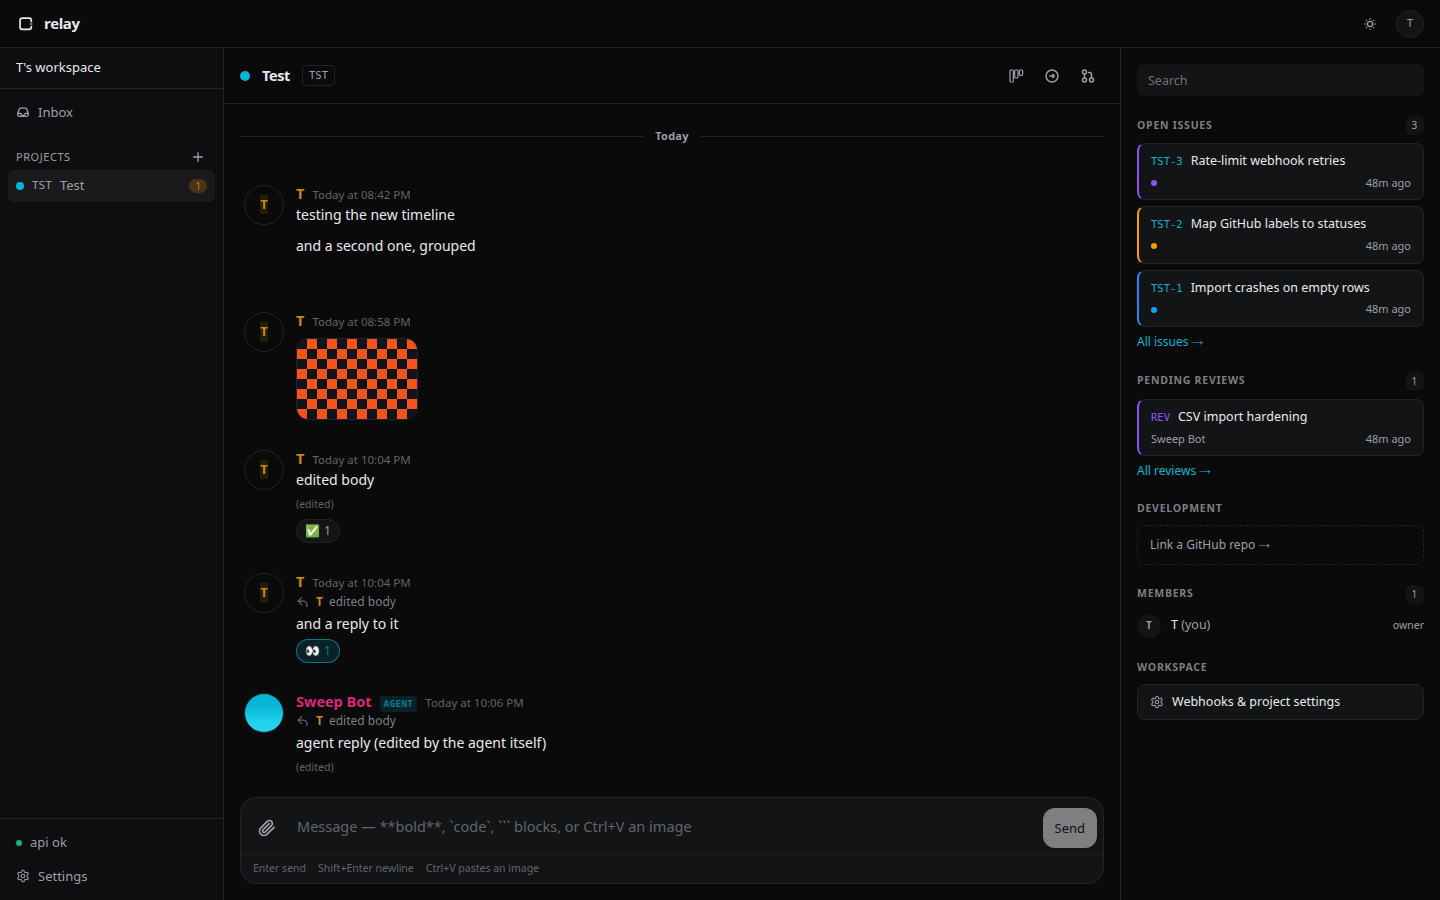
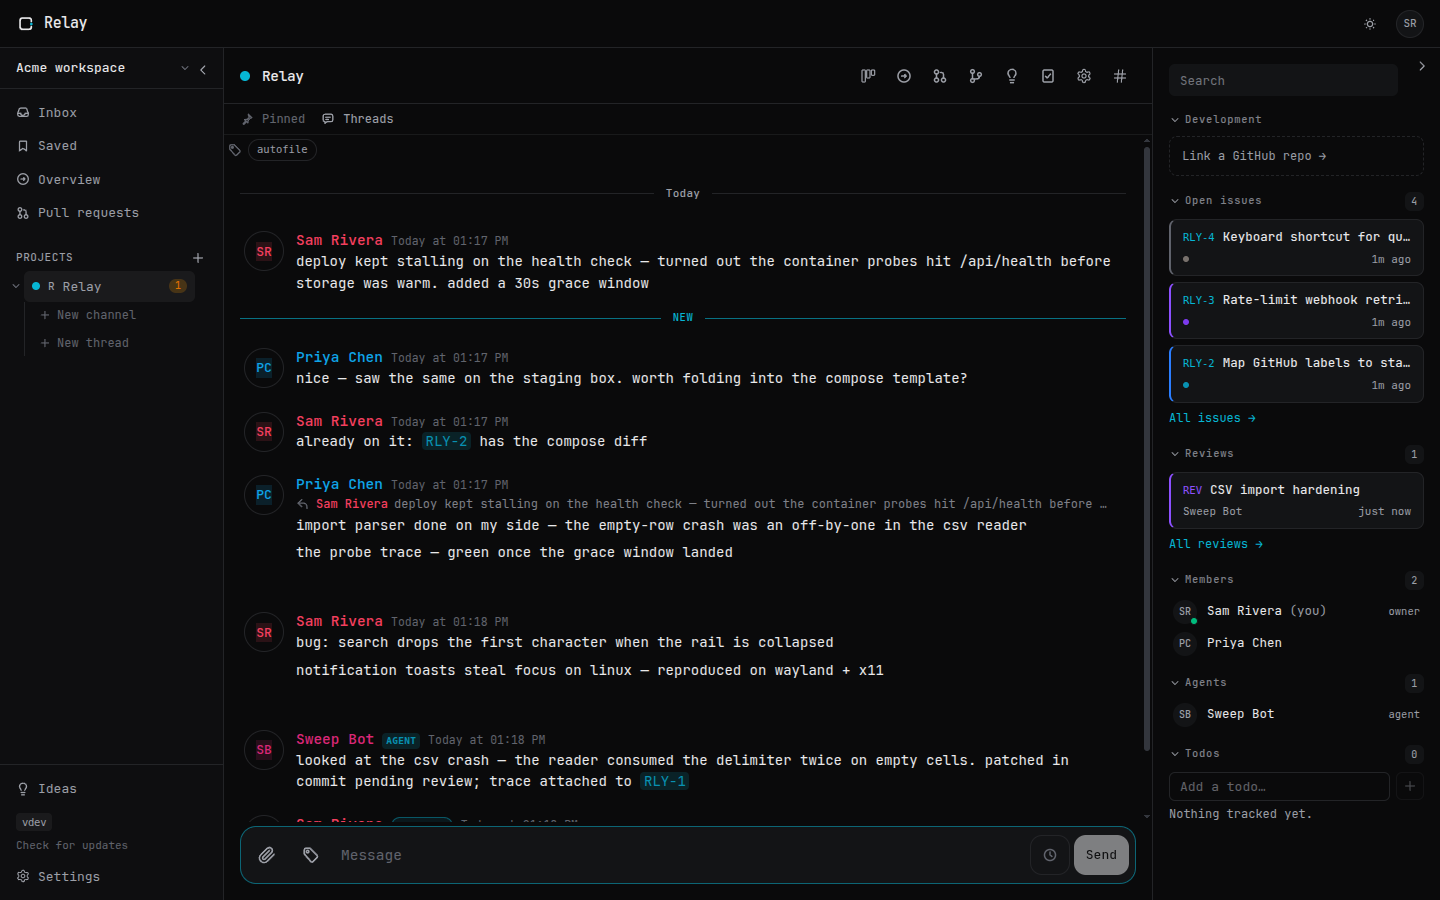
Refresh README screenshots and sync docs with current feature set
docs/shots/* were from Oct 2 — retaken against a live seeded instance:
chat shows agent replies + the filed-on-GitHub announce + issue chips,
board shows populated kanban lanes, reviews shows the agent review card
with decisions/verify.

- docs/GITHUB.md: three auth paths (app/GITHUB_TOKEN/gh CLI), new
  "Message -> issue filing" section covering auto-file markers, the
  manual endpoint, multi-repo disambiguation, and filed-tag dedup
- ARCHITECTURE.md: GitHub write-back is shipped (was "post-MVP");
  refreshed domains table, data model, event families, MCP tool surface,
  frontend features, offline/outage layer
- ROADMAP.md: Phase 29 entry; mark shipped phases 18-22 done
- SECURITY.md: drop stale "pre-1.0"; clarify no PAT is stored
- .env.example, apps/desktop/README: gh fallback + permanent/tray
  update-check wording

Generated with [Devin](https://devin.ai)

diff --git a/ARCHITECTURE.md b/ARCHITECTURE.md
@@ -44,21 +44,30 @@ docs/                specs, plans, guides
 | Package | Responsibility |
 |---|---|
 | `auth` | registration, login/logout, sessions, password reset, rate limiting |
-| `users` | profiles, avatars |
 | `workspaces` | workspace CRUD, members, roles (owner/admin/member) |
 | `projects` | project CRUD, members, agents access, keys (`MYB`) |
-| `conversations` | per-project threads, conversation↔issue linking |
-| `messages` | messages, markdown, read state, mentions |
+| `conversations` | per-project threads + channels, conversation↔issue linking |
 | `attachments` | upload pipeline, MIME/size validation, S3 keys, presigned URLs |
 | `issues` | issue tracker, statuses, labels, counters, activity |
-| `github` | app installation, repo linking, webhook ingest, sync state |
+| `github` | app/token/`gh` auth, repo linking, webhook ingest, message→issue filing |
 | `agents` | agent identities, MCP token lifecycle, review mode |
 | `reviews` | structured agent work reviews, verdict flow, pending counts |
-| `avatars` | user/agent logo upload, `/api/files` reader for avatar keys |
-| `mcp` | streamable-HTTP MCP server, tool handlers, scope enforcement |
-| `realtime` | in-process event hub → SSE fan-out |
-| `notifications` | inbox items, unread aggregation |
+| `briefs` | Excalidraw visual briefs attached to agent work |
+| `ideas` | per-project whiteboard (sticky notes, shapes, mention cards) |
+| `todos` | agent work lists (MCP `todo_*`, board "work list") |
+| `reminders` | message reminders, `reminder.fired` events |
+| `webhooks` | inbound hook tokens + outbound event subscriptions |
+| `localfiles` | project-folder file listings + `@file:`/`@gh:` reads |
+| `avatars` | user/agent/logo upload, `/api/files` reader for avatar keys |
+| `mcpserver` | streamable-HTTP MCP server, tool handlers, scope enforcement |
+| `agentdoc` | embedded agent guide (`get_guide`, `/api/agent-guide`) |
+| `realtime`/`events` | in-process event hub → SSE fan-out |
+| `saved` | saved-for-later message bookmarks |
+| `statuses` | custom per-project issue lanes |
 | `search` | Postgres FTS queries |
+| `push` | VAPID web-push subscriptions |
+| `unfurl` | link preview fetching |
+| `mentions` | structured mention resolution (`KEY-1`, `owner/repo#42`, files) |
 | `storage` | S3 client abstraction (minio-go) |
 | `config` | env loading, validation |
 
@@ -71,14 +80,17 @@ through the owning package or a dedicated query.
 ```text
 users ── sessions
 workspaces ── workspace_members ── users
-projects ── project_members, project (key prefix + issue counter)
+projects ── project_members (key prefix + issue counter)
 repositories ── github_installations
 agents ── agent_project_permissions ── mcp_tokens
-conversations ── messages ── message_attachments, message_reads
-issues ── issue_labels, issue_comments, issue_activity
+conversations ── channels
+   └── messages ── message_attachments ── attachments, message_reads
+issues ── issue_labels, issue_comments, issue_activity, boards
 agent_reviews (project + agent, optional issue; verdict by a human)
+briefs, ideas, agent_todos, reminders
 notifications
 github_links, github_sync_state
+webhook_subscriptions (outbound), inbound_hooks
 ```
 
 Issue keys: per-project counter + prefix (`MYB-142`). `issue_activity` is the
@@ -101,37 +113,46 @@ generated types only; writing API types by hand is a review rejection.
 
 ## Realtime
 
-SSE at `/api/events`. Events: `message.created`, `issue.updated`,
-`attachment.ready`, `notification.created`, `github.synced`. A single
-in-process hub fans out to subscribers.
+SSE at `/api/events`. Event families: `message.*` (created/updated/deleted/
+read), `channel.*`, `thread.*`, `issue.updated`, `reaction.updated`,
+`github.ci`, `reminder.fired`, `review.*`, plus ephemeral `typing` and
+`presence.update`. A single in-process hub fans out to subscribers; other
+packages and the webhook dispatcher can subscribe in-process too.
 
 Known ceiling: one process only. If Relay ever runs multi-instance, swap the
 hub's backend for Postgres `LISTEN/NOTIFY` - the SSE surface stays identical.
 
 ## MCP
 
-Streamable HTTP transport (`mark3labs/mcp-go`) at `/mcp`. Tool surface:
-
-`list_projects, get_project, list_conversations, get_messages, get_message,
-get_attachment, search_messages, list_issues, get_issue, send_message,
-create_issue, update_issue, mark_message_read`
+Streamable HTTP transport (`mark3labs/mcp-go`) at `/mcp`. ~55 tools across
+projects, conversations/messages/threads, attachments, issues, todos,
+project files, reviews, briefs, ideas, and the full GitHub surface
+(`github_list_*`, `github_create_*`, `github_merge_pr`, `github_rerun`, …).
+The canonical tool map is `internal/agentdoc/guide.md` — agents fetch it
+via `get_guide`, `relay-cli guide`, or `GET /api/agent-guide`.
 
 "Last seen" = timestamp of the last authenticated MCP call. Relay reports
 only what it can prove - no presence simulation.
 
 ## GitHub
 
-GitHub App (manifest creation → install → webhook). Installation tokens are
-short-lived and never persisted; webhook payloads are HMAC-SHA256 verified
-and recorded idempotently in `github_sync_state`. MVP direction is
-GitHub → Relay mirroring; Relay → GitHub writes are post-MVP.
+Three auth paths, resolved in order: a registered GitHub App (manifest
+creation → install → webhook; short-lived installation tokens, never
+persisted), `GITHUB_TOKEN`, or the host's `gh` CLI login. Webhook payloads
+are HMAC-SHA256 verified and recorded idempotently in `github_sync_state`.
+
+Sync runs **both directions**: GitHub → Relay mirrors issues, PRs, labels,
+and CI; Relay → GitHub covers issue push, issue/PR creation, comments,
+reviews, in-app merge, and message→issue filing (`bug:`-style auto-file and
+the manual **File on GitHub** action, deduplicated by a `filed` tag claimed
+atomically on the source message). See docs/GITHUB.md.
 
 ## Storage
 
 `minio-go` against `STORAGE_ENDPOINT` (RustFS dev default, MinIO, S3, R2, anything S3-shaped).
-Uploads stream through `POST /api/attachments` (sniffed MIME, size cap,
-random key); downloads use short-lived presigned GET URLs so the API never
-proxies large bodies.
+Uploads stream through `POST /api/projects/:id/attachments` (sniffed MIME,
+size cap, random key); downloads use short-lived presigned GET URLs so the
+API never proxies large bodies.
 
 ## Search
 
@@ -140,10 +161,19 @@ Postgres FTS (`tsvector` over messages, issues, projects) behind
 
 ## Frontend
 
-Feature-sliced SolidJS (`src/features/{auth,projects,conversations,issues,
-github,agents,search}`). Ark UI primitives, Tailwind utilities, dark + light
-themes. Solid stores for client state; generated api-client for all server
-state; optimistic send for messages.
+Feature-sliced SolidJS (`src/features/{agents,auth,briefs,conversations,
+github,ideas,issues,projects,reviews,webhooks,workspaces}`). Ark UI
+primitives, Tailwind utilities, dark + light themes. Solid stores for
+client state; generated api-client for all server state; optimistic send
+for messages.
+
+**Offline/outage layer** (`src/lib/`): a response cache keeps last-synced
+reads visible when the server is down; mutations queue in a durable outbox
+(images park as blobs, placeholder attachment ids rewrite mid-replay) and
+drain FIFO when `/api/health` recovers. "Work locally" imports the cached
+workspace into IndexedDB local mode — remote entities keep their server
+ids, so reconnect syncs only the delta without duplicating what was
+imported.
 
 ## Testing
 

diff --git a/ROADMAP.md b/ROADMAP.md
@@ -301,7 +301,7 @@ repos' open PRs; rail search filters this project inline.
   `apps/mobile/plugins/withReleaseSigning.js`
 - DragonflyDB cache layer if hot paths need it
 
-## Phase 18 — project states, boards, push, local folders, mobile outbox
+## Phase 18 — project states, boards, push, local folders, mobile outbox ☑
 
 - **Custom statuses**: `projects.statuses` JSONB definitions (id, label,
   color, closed flag) editable in project settings; the DB CHECK constraint
@@ -323,7 +323,7 @@ repos' open PRs; rail search filters this project inline.
   the server is unreachable; a successful poll drains them in order. Full
   local-mode remains a desktop/web feature by design.
 
-## Phase 19 — mentions, briefs, IndexedDB, CLI polish
+## Phase 19 — mentions, briefs, IndexedDB, CLI polish ☑
 
 - **Structured mentions**: `messages.mentions` jsonb stores resolved
   references (`user`, `agent`, `issue`, `gh`, `file`, `repo`). `@name`,
@@ -352,7 +352,7 @@ repos' open PRs; rail search filters this project inline.
 - **Brand lock**: `#06b6d4` is the only accent; the Settings accent picker
   is gone (`relay.accent` pref purged); favicon is the white mark on brand
   black with a cyan dot, shared by web and landing.
-## Phase 20 — release artifacts & landing refresh
+## Phase 20 — release artifacts & landing refresh ☑
 
 - **Release builds**: `v*` tags produce the full artifact set —
   server + CLI binaries (linux/windows/darwin), Wails desktop for
@@ -369,7 +369,7 @@ repos' open PRs; rail search filters this project inline.
 - **Scene labels**: `SceneView` renders `text` on shapes (agent-authored
   labels), centered with line splits and a luminance-aware fill.
 
-## Phase 21 — embedded Excalidraw editor
+## Phase 21 — embedded Excalidraw editor ☑
 
 - **Real Excalidraw in briefs**: every brief gains an "Edit canvas" path that
   mounts the actual `@excalidraw/excalidraw` component as a React island
@@ -385,7 +385,7 @@ repos' open PRs; rail search filters this project inline.
   are interchangeable; the lightweight `SceneView` still renders the core
   subset for quick viewing.
 
-## Phase 22 — message deletion, chat styles, threads
+## Phase 22 — message deletion, chat styles, threads ☑
 
 - **Message deletion**: `DELETE /api/messages/:id` soft-deletes (`deleted_at`),
   author-only, same agent-read lock as edit; `message.deleted` over SSE drops
@@ -550,6 +550,38 @@ just invalidated — regression covered in `TestChannelsAndExpiry`).
   reviews) so "what did the agent do overnight" answers itself.
 - **Multi-agent routing**: `@agent` mentions exist; add per-channel default
   agent + mention-targeted wake so the right agent picks up work.
+
+## Phase 29 — outage resilience & message→GitHub filing ☑
+
+Verified live with a scripted browser rehearsal: server killed mid-session,
+a queued image + message rendered inline with real previews, and on
+recovery the outbox replayed FIFO (upload `201` → message `201`); "Work
+locally" imported the cached workspace and reconnect didn't duplicate it.
+
+- **Server-outage tolerance**: reads serve the last-synced response cache;
+  sends/edits queue in a durable IndexedDB outbox and drain automatically
+  once `/api/health` answers. Image/file uploads park as blobs and replay
+  through the base64 path; placeholder `att:` ids rewrite to real ids
+  mid-drain. Queued rows show previews and a discard option.
+- **Snapshot import**: "Work locally" hydrates IndexedDB from the cached
+  workspace — remote entities keep server ids, so sync skips imported
+  rows and replays only the delta.
+- **SW media cache fix**: `sw.js` no longer permanently caches transient
+  opaque (no-cors) responses — network-first with cache fallback, so a
+  recovered server self-heals a poisoned entry.
+- **Message → GitHub filing**: user messages on repo-linked projects file
+  as GitHub issues. Auto-file fires on line-start markers (`bug:`,
+  `issue:`, `enhancement:`, `feature request:`, `suggestion:`,
+  `proposal:`, `/bug`-style slash forms); manual via ⋯ menu →
+  **File on GitHub** or `POST /api/messages/:id/github`. Attachments embed
+  via presigned URLs; the issue mirrors onto the board and a threaded
+  reply links it. Multi-repo projects never guess — a guidance reply
+  points at the manual pick. Dedup via an atomically-claimed `filed` tag
+  (`409 already_filed`); agent-authored and `autofile`-tagged replies are
+  excluded server- and client-side.
+- **Update checks**: rail keeps a permanent **Check for updates** button
+  alongside the status; manual checks and the tray item bypass the 5-min
+  session cache so they always hit the release feed.
 
 ## Post-1.0 ideas (not committed)
 

diff --git a/docs/GITHUB.md b/docs/GITHUB.md
@@ -4,6 +4,17 @@ Relay connects to GitHub through a **GitHub App** — per-repository
 permissions, short-lived installation tokens, and signed webhooks. No
 personal access tokens are needed in production.
 
+Two alternatives resolve automatically when no app is registered:
+
+1. `GITHUB_TOKEN` — any PAT or fine-grained token.
+2. The host's `gh` CLI login — Relay runs `gh auth token` when neither of
+   the above is configured, so a self-hosted instance whose operator is
+   `gh`-authed works with zero setup. (This is the *server's* `gh` — a
+   remote client's login is never touched.)
+
+Webhooks still require the app path; token/`gh` mode is read/write REST
+only — see [Development fallback](#development-fallback).
+
 ## What it gives you
 
 - **Linked repositories** on a project — visible on the Development tab.
@@ -71,6 +82,37 @@ link. Afterwards, status changes sync best-effort — `done`/`cancelled`
 close the GitHub issue, other statuses reopen it. Inbound webhook events
 keep flowing the other direction, so the two converge.
 
+## Message → issue filing
+
+Conversation messages can become GitHub issues directly.
+
+**Automatic** — a user message on a project, channel, or thread of a
+project with **exactly one** linked repo files itself when it opens with
+a line-start marker: `bug:`, `issue:`, `enhancement:`, `feature request:`,
+`suggestion:`, `proposal:`, or slash forms (`/bug`, `/issue`, …). The
+marker is stripped, the first report line becomes the title, image
+attachments embed inline via presigned URLs, other files link with size
+labels, the result mirrors onto the Relay board, and a threaded reply
+links `owner/repo#N`. Prose that merely mentions a bug never files;
+agent messages and the filing reply itself (`autofile`-tagged) can't
+retrigger.
+
+**Manual** — any user message's ⋯ menu → **File on GitHub**, or
+`POST /api/messages/:id/github` (`{repo_id?, title?}`), runs the same
+filing core. One linked repo files immediately; several pop a repo picker
+and the request must name a repo linked to that project. Errors are real:
+`409 no_repo` when nothing is linked, `400` for a foreign `repo_id`,
+`404` for non-members, `502 github_error` for upstream failures.
+
+**Multi-repo projects never guess.** An auto-file candidate on a
+multi-repo project gets a guidance reply pointing at the manual action
+instead of picking a repo.
+
+**Deduplication** — the first file claims a `filed` tag on the source
+message atomically; repeats return `409 already_filed` and the menu item
+disappears live via `message.updated`. If GitHub creation fails before an
+issue exists, the claim releases so retry is possible.
+
 ## Outbound webhooks (agents → Relay events)
 
 Project **Settings → Outbound webhooks**: subscribe an HTTPS endpoint to
@@ -87,6 +129,8 @@ same path.
 Setting `GITHUB_TOKEN` (any PAT/fine-grained token, or
 `$(gh auth token)`) makes Relay skip the app flow: the repo picker lists the
 token owner's repos (`affiliation=owner`) and REST calls use the token
-directly. Linking works with `installation_id: 0`. Webhooks still require a
+directly. With no `GITHUB_TOKEN` at all, Relay falls back to the host's
+`gh auth token` automatically when the CLI is installed and authed.
+Linking works with `installation_id: 0`. Webhooks still require a
 registered app — synthetic payloads signed with the stored webhook secret
 work for local testing.

diff --git a/apps/desktop/README.md b/apps/desktop/README.md
@@ -65,10 +65,13 @@ running window as the `relay:deeplink` event. Uninstall removes the key.
 
 ## Self-update
 
-"Check for updates" in the rail compares GitHub's latest tag against the
-binary's own stamp (`-ldflags -X main.version=<tag>`, reported through
-`App.Version()`) — not the SPA bundle, which the proxy serves from the
-*server's* build. `App.SelfUpdate(tag)` then:
+"Check for updates" lives permanently in the rail footer beside the status
+line and in the system-tray menu; a manual check (either path) bypasses the
+5-minute result cache and always queries GitHub. The check compares the
+latest release tag against the binary's own stamp (`-ldflags -X
+main.version=<tag>`, reported through `App.Version()`) — not the SPA
+bundle, which the proxy serves from the *server's* build.
+`App.SelfUpdate(tag)` then:
 
 - **Windows**: downloads `Relay-Setup-<ver>.exe`, runs it `/S /SELFUPDATE`.
   `.onInit` taskkills the running app, the silent install overwrites it,
@@ -135,5 +138,7 @@ ignored. The mark renders from `assets/brand/kit/relay-mark-accent-app-icon.svg`
 ## Deferred
 
 - Global screenshot hotkey — needs an OS-specific hook that doesn't fit the
-  thin-shell model. (The Windows system tray uses fyne.io/systray for its
-  click callbacks; Linux/macOS tray icons remain deferred.)
+  thin-shell model. (Tray: Windows via fyne.io/systray, Linux via
+  StatusNotifierItem over D-Bus; both expose **Check for updates**, which
+  restores the window and forces a live check. macOS keeps dock
+  conventions.)

diff --git a/SECURITY.md b/SECURITY.md
@@ -16,7 +16,7 @@ notes unless you prefer otherwise.
 
 ## Supported versions
 
-Relay is pre-1.0. Only the latest release receives security fixes.
+Only the latest release receives security fixes.
 Upgrade to the newest tag before reporting old-version issues.
 
 ## Security-relevant design notes
@@ -30,8 +30,10 @@ Things reporters and self-hosters should know:
 - **MCP tokens** - `rly_`-prefixed bearer tokens, stored as SHA-256 hashes,
   scoped to projects and permission sets, revocable per token. Treat them
   as credentials; Relay never logs them.
-- **GitHub** - GitHub App installation tokens only (short-lived); webhooks
-  verified with HMAC-SHA256 signatures; no personal access tokens stored.
+- **GitHub** - GitHub App installation tokens are short-lived and never
+  persisted; webhooks verified with HMAC-SHA256. Token mode reads
+  `GITHUB_TOKEN` from the environment or shells out to `gh auth token` —
+  no personal access token is ever stored in the database.
 - **Uploads** - server-side MIME sniffing (not just extension checks),
   size caps, randomized storage keys, content served via short-lived
   presigned URLs.
